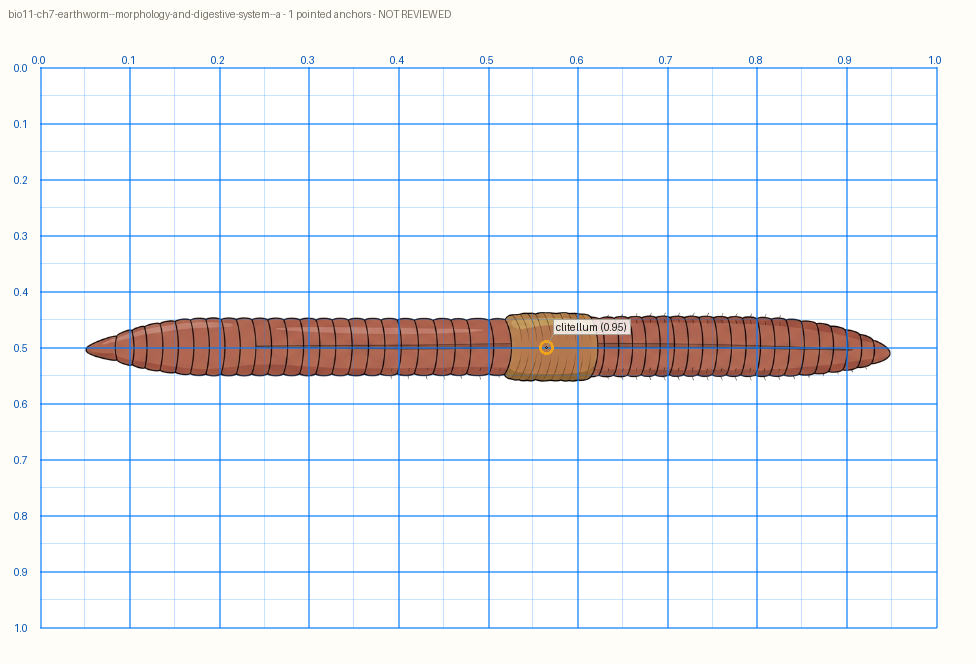
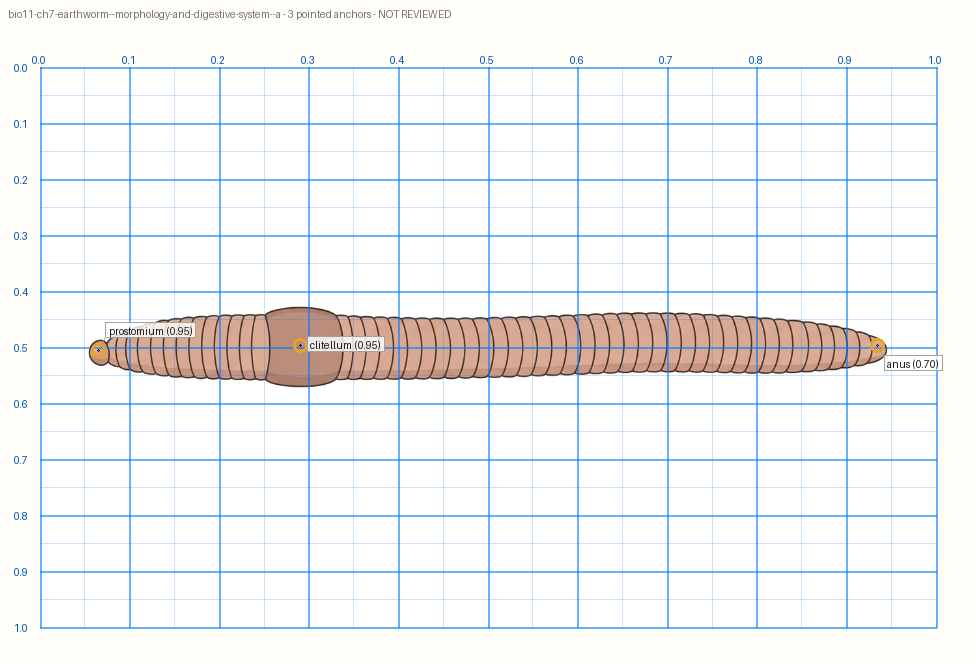
Batch 6 ingested and pointed: 5 plates, 30 anchors, nothing published
Ingest: 4 inserted, 1 updated (the earthworm replacement), 5 @2x renditions,
112 existing rows untouched. Reconciliation clean both directions; all 233
public keys return 200 anonymously; every served plate hashes to its manifest
sha, including the earthworm's new e0a514d2 — so the B0 refetch path works.

Pointed, 30 anchors across 5 sets, all `claude-pointed`, hi == en,
reviewed_by NULL on every one:

  earthworm --a        3   prostomium, clitellum, anus          (was 1 label)
  cockroach --b        6   male, 2 groups
  cockroach --c        5   female
  frog --b            11   digestive, 3 groups
  platyhelminthes --c  5   Taenia, 2 groups

Every anchor was read off a 0.05 coordinate grid, probed at single-pixel
precision to prove it lands on INK rather than in a white gap between
structures, then audited at 6x with a crosshair — the platelet method. That
sequence caught four anchors a bbox check would have passed:

  ovariole          landed in white space between two tubules (2% ink)
  oviduct           landed just off the tube (33%)
  proglottid        landed ON the boundary stroke between two segments
  collateral gland  sat on a frond edge; moved to the deepest interior pixel

`bile duct` is OMITTED with a measurement, not a guess: all 398 green pixels
on the frog plate lie in a 38x26 box that IS the gall bladder, so a separate
bile-duct anchor would point at the gall bladder. Also omitted: peristomium
[…]

Changed region(s): [[0.0922, 0.4518, 0.9836, 0.6024]]

diff --git a/content/illustrations/v1/batch6/DIRECTIVE.md b/content/illustrations/v1/batch6/DIRECTIVE.md
@@ -1,0 +1,66 @@
+# Batch 6 + Session F — directive for Claude Code
+
+Package: `drona-batch6.zip`. Contents: `raw/<asset_slug>.png` (the five Gemini plates, checked by Raasikh and by the reviewer against the anatomy reject rules below), this file, and `CONFIRMATIONS.txt` (Raasikh's eleven per-chapter lines for Session B).
+
+Run everything in one pass. Stop only at a hard gate that is not released here. Report once at the end.
+
+Standing constraints, unchanged: no web fetching for illustrations; never open, reference or trace an NCERT figure; licence/source_url/author CHECK allowlists extended deliberately, never weakened; the model never emits coordinates or SVG for a registry widget; precedence by tier not timing; Gemini raster masters never modified — SVG-authored plates are re-rendered from the SVG and replaced as a unit; CC never handles credentials or applies migrations; `reviewed_by` and SANE columns are written only on Raasikh's explicit confirmation, quoted in the report; labels are English only (`hi == en`).
+
+## Part 1 — Batch 6 plates (five files in `raw/`)
+
+| file | disposition | sub_index |
+|---|---|---|
+| `bio11-ch7-earthworm--morphology-and-digestive-system--a.png` | REPLACES the existing master by identical asset_slug (master_sha256 bumps; B0 refetches) | 0 |
+| `bio11-ch7-cockroach--nervous-system-and-reproduction--b.png` | new sub-asset (male reproductive) | 1 |
+| `bio11-ch7-cockroach--nervous-system-and-reproduction--c.png` | new sub-asset (female reproductive) | 2 |
+| `bio11-ch7-frog--external-morphology-and-digestive-system--b.png` | new sub-asset (digestive system) | 1 |
+| `bio11-ch4-phylum-platyhelminthes--c.png` | new sub-asset (Taenia) | 2 |
+
+Manifest rows already exist as `pending-file` (`licence=generated-free`, `source_url=generated:gemini:batch6/<slug>`, `author=MonkLearning (AI-generated, Gemini)`). For each file: copy into `raw/` in the repo, flip the row to `accepted`, then the normal path — `--strip` if any baked text survived, normalize (near-white → white, 28 px margin, 16:10 canvas, never crop/scale), corner + OCR checks, ingest, renditions where width < 1600, `upload_and_verify`, public HEAD, reconciliation 0/0 both ways. Record measured `width,height,sha256` — never guessed.
+
+Anatomy reject rules (if a plate fails one, refuse the row and say which; do not "fix" the art):
+- earthworm: clitellum at roughly one-eighth of body length from the anterior end, NOT mid-body; prostomium visible at the anterior tip.
+- cockroach male: two testes; vasa deferentia join into a single ejaculatory duct; mushroom gland present.
+- cockroach female: two ovaries of ~8 tubules each; oviducts join; a PAIR of spermathecae.
+- frog digestive: three-lobed liver; coiled small intestine; gall bladder, pancreas, spleen present.
+- Taenia: scolex with suckers and hooks; segmented ribbon body.
+
+Then point each new/replaced plate exactly as ch7 was pointed: coordinate grid over the master, anchors read off the grid, omit below 0.6 confidence and list why, group by `ncert_labels` order ≤ 5 per group unless larger is gate-clear, `hi := en`, `source=claude-pointed`, `reviewed_by` NULL. Run the 6× zoom audit on every anchor (the platelet method) and re-point any miss. TS gate at all five frames. Review sheet + zoom sheet per set; rebuild the ch7 and ch4 contact sheets.
+
+Term moves that come with these plates:
+- The Taenia terms (scolex, hook, sucker, neck, proglottid) move from `platyhelminthes--b`'s draft to `--c`. `--b` (planarian) stays bare.
+- The earthworm whole-body terms (prostomium, mouth, anus, setae, the pore types, clitellum, segments) are pointed on the replaced `--a`.
+- Cockroach male terms (testis, vas deferens, seminal vesicle, mushroom gland, ejaculatory duct, phallic gland, gonapophysis) to `--b`; female terms (ovary, ovarian tubule, oviduct, genital chamber, spermatheca, collateral gland) to `--c`. Whatever of these the bare parent plate had placed stays there too — a term may be anchored on more than one sub-asset of a set.
+- Frog digestive terms (buccal cavity, oesophagus, stomach, small intestine, duodenum, ileum, rectum, cloaca, liver, gall bladder, bile duct, pancreas, spleen) to `--b`; the bare parent keeps whatever it already had placed.
+
+Report these five as ready-for-signature. **Do not publish them.**
+
+## Part 2 — Session B publish (the eleven lines in `CONFIRMATIONS.txt`)
+
+For each line: `apply_review --chapter <id> --by raasikh --exclude <…>` with the line quoted. Per set: gate verdict, public URL, sha, `label_set_version`; row backfilled from the live object. Verify every published set against the bytes R2 serves (200, JSON, `max-age=300 must-revalidate`, `reviewed_by=raasikh`, row sha == live sha). One chapter prefetch per chapter on the running simulator, no restart: drop count = sets published in that chapter. Board captures at 343×236 to `reports/published/<chapter>/`.
+
+The one exclusion is `bio11-ch4-phylum-platyhelminthes--b` (bare by decision). Any set that is not gate-clear at publish time is refused by name, not skipped silently.
+
+## Part 3 — Session G: precompute with hold-back (Session F is complete; this supersedes it)
+
+State after Session F: 113/113 stored payloads render across all four subjects; `conic_plot@1` is through the gate and routed; the `sane` column is null on every harness record, and the only SANE numbers are the proposals in `scripts/sane_proposals.md` (chem 89.4, physics ~32/40, bio 70, maths unmeasured).
+
+Decision (Raasikh — the last line of `CONFIRMATIONS.txt`): the SANE proposals are adopted as verdicts for the chapters they cover. Write the SANE columns from the proposals with `verdict_by=raasikh` and the confirmation quoted. Invent no proposals for chapters that have none — those carry SANE = unmeasured.
+
+- G1. Precompute runs for every chapter that has authored plans, in batches of ten, v5 prompt unchanged, with the hold-back rule: a registry widget bakes only where its chapter's SANE verdict is ≥ 85%; below 85% or unmeasured, the widget slot is skipped and the concept resolves down the precedence (illustration → precomputed SVG → live SVG). Illustration slots do not depend on SANE and always bake. Per concept report the resolved slot before/after. A concept with an asset or an eligible routed widget that resolves to `svg_precomputed`/`none` is a resolver bug — stop and report, never patch around.
+- G2. After precompute: one classroom pass per subject on the simulator (three concepts each, 343×236 and 702×289), captures to `reports/precompute/<chapter>/`. Confirm slot-1 payloads draw, illustration plates draw with their published labels, and held-back widgets fall through to SVG without a blank board.
+- G3. Held-back list with what raises each: physics 12 ch1 (about two more sane rows); bio 12 Ecosystem (`comparison_table` for 15 segments, an ecological-pyramid widget for 4 — write both specs in `docs/`, build nothing); chem multi-species mechanisms (8 segments — write the width constraint in `docs/`, build nothing).
+- G4. Build status: state whether the current EAS preview build carries the placement rewrite, wrap rule, B0 invalidation, conic_plot and the payload caps; list what it lacks. A new build is Raasikh's to trigger — CC never handles Expo credentials.
+
+## Report — one message
+
+1. Batch 6: per plate — ingested / refused (rule named), anchors placed / omitted, groups, gate verdict, zoom-audit corrections; ch7 and ch4 contact sheet paths.
+2. Session B publish: per chapter — sets published, excluded, refused; per set URL/sha/version; prefetch drop counts; capture folder.
+3. Session G: SANE columns written (from which proposals, line quoted); precompute per chapter — concepts baked / held back / fell through, with the slot table; classroom captures; the held-back list with what raises each; build status.
+4. Everything refused, with the reason and who unblocks it.
+
+## Notes on the plates as delivered (reviewer)
+
+- The frog digestive plate's liver reads as two lobes. Accepted: `liver` is the only liver term; do not add lobe terms to any draft for it.
+- All five are 896x500 chat-downscaled; the `@2x` rendition rule applies (width < 1600).
+- README.md carries the sha256 of each raw file; verify before ingest.

diff --git a/content/illustrations/v1/batch6/README.md b/content/illustrations/v1/batch6/README.md
@@ -1,0 +1,13 @@
+# drona-batch6
+
+Five Gemini plates, checked by Raasikh and the reviewer against the anatomy reject rules in DIRECTIVE.md. All 896x500, white corners, clear of edges after normalize (dry-run confirmed: every bbox >= 28 px from every edge on a 896x560 canvas).
+
+| file | sha256 (12) | check |
+|---|---|---|
+| raw/bio11-ch7-earthworm--morphology-and-digestive-system--a.png | 463e25474e97 | REPLACES existing master. Clitellum in the anterior third, prostomium lobe at the left tip; both ends distinct. Pass. |
+| raw/bio11-ch7-cockroach--nervous-system-and-reproduction--b.png | 126ebfc53525 | Male. Two testes, vasa deferentia join, mushroom gland, phallic glands (two small projections beside the lower duct), hooked genitalia. Pass. |
+| raw/bio11-ch7-cockroach--nervous-system-and-reproduction--c.png | e8811744ad57 | Female. Two ovaries of ~8 tubules, oviducts join, paired spermathecae (yellow), collateral glands (green), genital chamber. Pass. |
+| raw/bio11-ch7-frog--external-morphology-and-digestive-system--b.png | 210ceb875077 | Digestive. Buccal cavity, oesophagus, stomach, coiled small intestine, rectum, cloaca, gall bladder, bile duct, pancreas, spleen all present and placed correctly. Liver reads as two lobes rather than three — accepted because lobe count is not a labelled term on this plate; label `liver` only, never add lobe terms. |
+| raw/bio11-ch4-phylum-platyhelminthes--c.png | 2681ebb988ea | Taenia. Scolex with suckers and hooks, neck, segmented ribbon body widening posteriorly, whole animal inside the frame. Pass. |
+
+Rejected alternates (not included): a labelled frog digestive plate (baked text), a Taenia plate cut off at the frame edge, second cockroach male/female renders (equivalent; the cleaner one of each pair is included).
